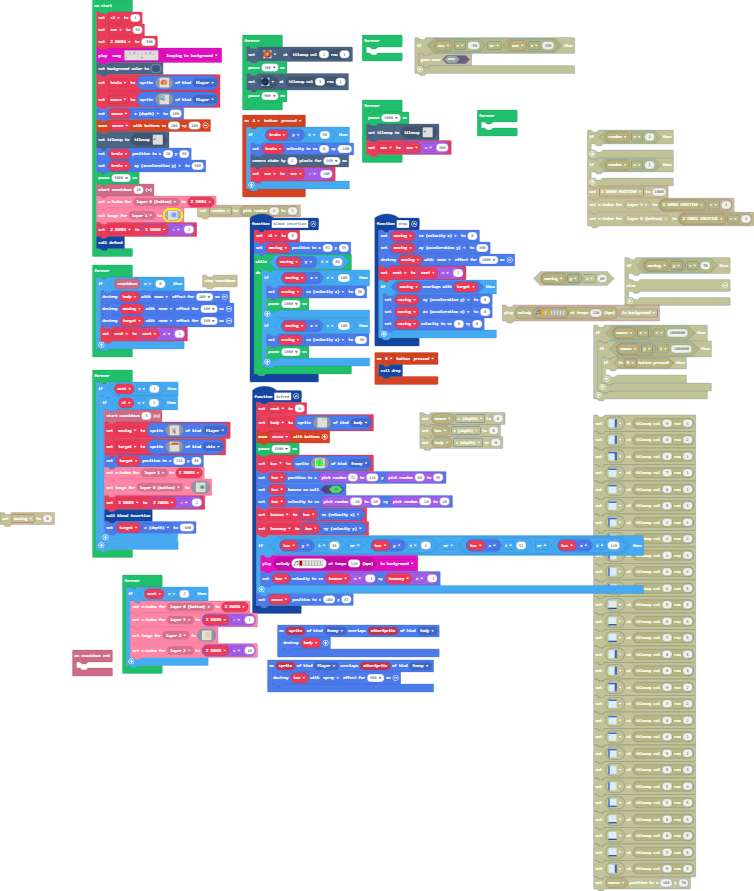
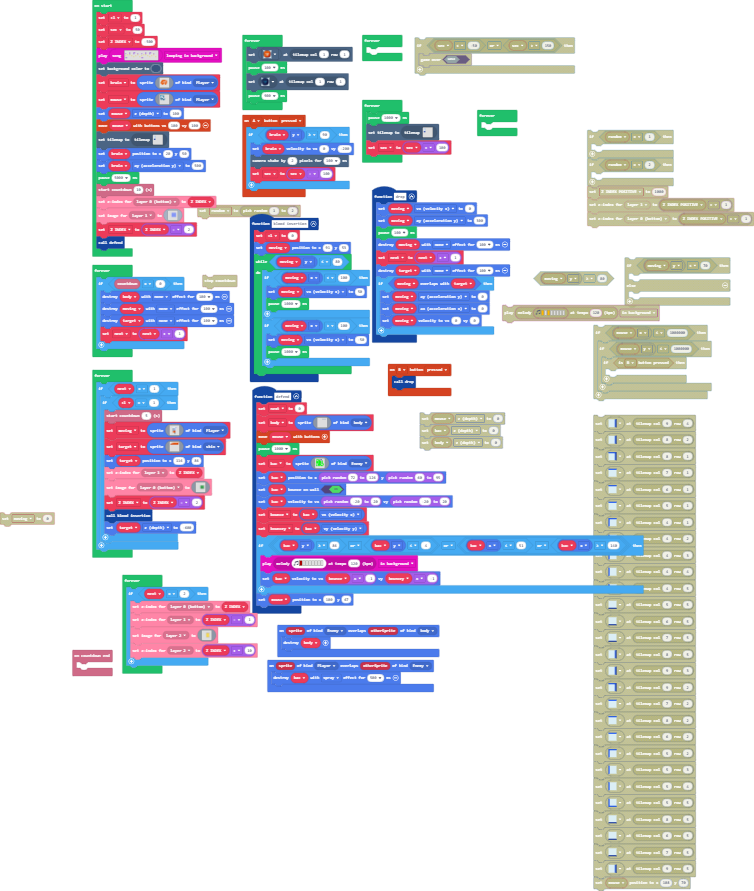
Update main.blocks, main.ts

Changed region(s): [[0.4881, 0.2121, 0.7016, 0.4545]]

diff --git a/main.ts b/main.ts
@@ -117,8 +117,10 @@ function defend () {
 function drop () {
     moving.vx = 0
     moving.ay = 300
-    sprites.destroy(moving, effects.none, 1000)
+    pause(100)
+    sprites.destroy(moving, effects.none, 100)
     next = next + 1
+    sprites.destroy(target, effects.none, 100)
     if (moving.overlapsWith(target)) {
         moving.ay = 0
         moving.ax = 0
